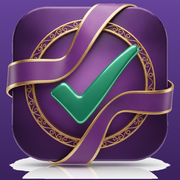
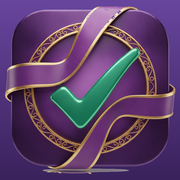
agenda-aulas: icone limpo (remove reflexo de baixo, emblema maior) + cache SW v6
Claude-Session: https://claude.ai/code/session_01AsX7hAnJR4hMzzYygTzYCg

diff --git a/_agenda/sw.js b/_agenda/sw.js
@@ -1,6 +1,6 @@
 /* Service Worker — app shell offline + HTML sempre fresco.
    Os dados (Firebase, outra origem) NUNCA são cacheados: passam direto pela rede. */
-const CACHE = "agenda-shell-v5";
+const CACHE = "agenda-shell-v6";
 const SHELL = ["./", "./index.html", "./manifest.json", "./icon-192.png", "./icon-512.png"];
 
 self.addEventListener("install", (e) => {